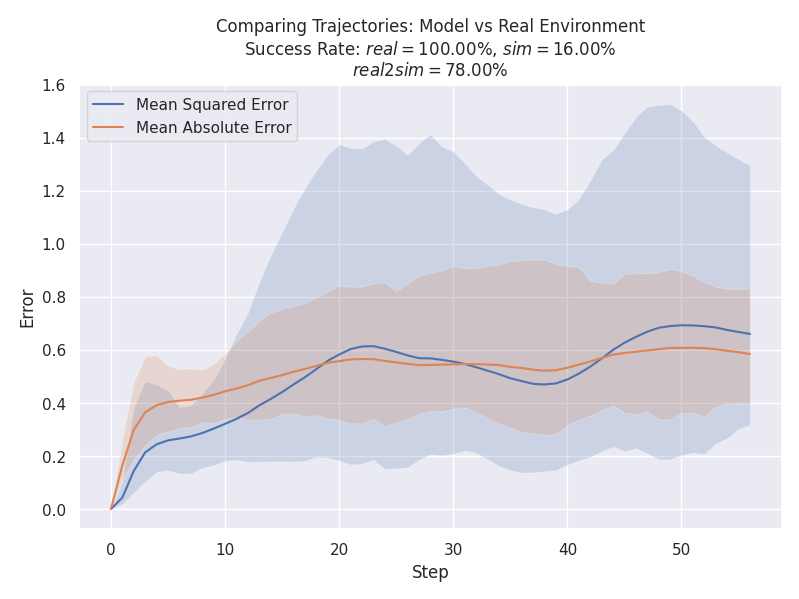
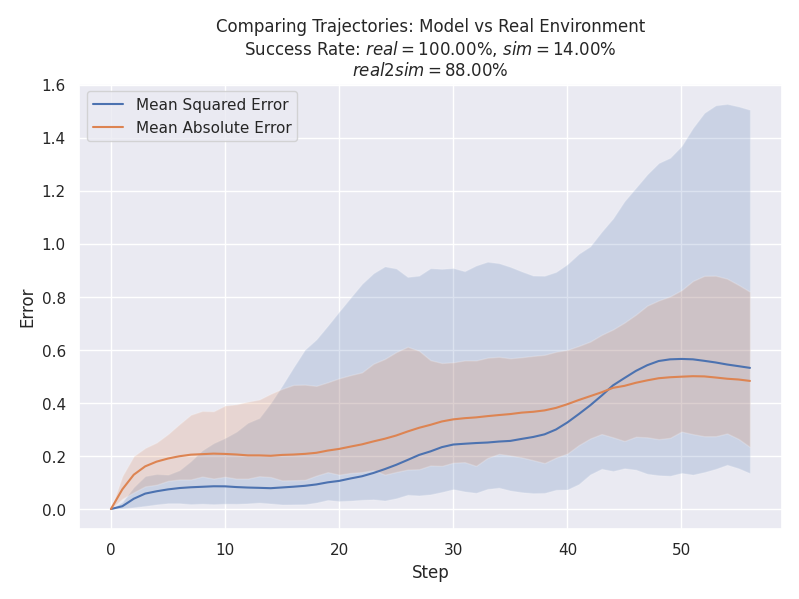
training deeper multistep model

diff --git a/envmodel/initial_observation.py b/envmodel/initial_observation.py
@@ -7,11 +7,12 @@ from flax import linen as nn
 
 class Encoder(nn.Module):
     latent_dimension: int
-    hidden_size: int
+    hidden_dims: Tuple[int, ...]
 
     @nn.compact
     def __call__(self, x):
-        x = nn.relu(nn.Dense(self.hidden_size)(x))
+        for hidden_dim in self.hidden_dims:
+            x = nn.relu(nn.Dense(hidden_dim)(x))
         mean = nn.Dense(self.latent_dimension)(x)
         logvar = nn.Dense(self.latent_dimension)(x)
         return mean, logvar
@@ -19,22 +20,23 @@ class Encoder(nn.Module):
 
 class Decoder(nn.Module):
     output_dimension: int
-    hidden_size: int
+    hidden_dims: Tuple[int, ...]
 
     @nn.compact
     def __call__(self, z):
-        z = nn.relu(nn.Dense(self.hidden_size)(z))
+        for hidden_dim in self.hidden_dims:
+            z = nn.relu(nn.Dense(hidden_dim)(z))
         return nn.Dense(self.output_dimension)(z)
 
 
 class InitialObservationEnvModel(nn.Module):
     observation_dimension: int
     latent_dimension: int
-    hidden_size: int = 128
+    hidden_dims: Tuple[int, ...] = (128,)
 
     def setup(self):
-        self.encoder = Encoder(self.latent_dimension, self.hidden_size)
-        self.decoder = Decoder(self.observation_dimension, self.hidden_size)
+        self.encoder = Encoder(self.latent_dimension, self.hidden_dims)
+        self.decoder = Decoder(self.observation_dimension, self.hidden_dims)
 
     def reparameterize(self, key, mu, logvar):
         std = jnp.exp(0.5 * logvar)

diff --git a/envmodel/multistep.py b/envmodel/multistep.py
@@ -7,15 +7,15 @@ from envmodel.baseline import BaselineEnvModel
 
 
 class Cell(nn.Module):
-    observation_dimension: int = 28
-    action_dimension: int = 5
-    hidden_size: int = 128
+    observation_dimension: int
+    action_dimension: int
+    hidden_dims: Tuple[int, ...]
 
     def setup(self):
         self.cell = BaselineEnvModel(
             observation_dimension=self.observation_dimension,
             action_dimension=self.action_dimension,
-            hidden_size=self.hidden_size,
+            hidden_dims=self.hidden_dims,
         )
 
     @nn.compact
@@ -31,7 +31,7 @@ class Cell(nn.Module):
 class MultistepEnvModel(nn.Module):
     observation_dimension: int = 28
     action_dimension: int = 5
-    hidden_size: int = 128
+    hidden_dims: Tuple[int, ...] = (128, 256, 128)
 
     @nn.compact
     def __call__(
@@ -48,7 +48,7 @@ class MultistepEnvModel(nn.Module):
         _, (next_observations, terminations) = model(
             observation_dimension=self.observation_dimension,
             action_dimension=self.action_dimension,
-            hidden_size=self.hidden_size,
+            hidden_dims=self.hidden_dims,
         )(observations[:, 0, :], actions)
 
         return next_observations, terminations

diff --git a/train_env_model.py b/train_env_model.py
@@ -32,7 +32,7 @@ if config.model == "baseline":
     env_model = BaselineEnvModel(
         observation_dimension=sample_batch["observations"].shape[-1],
         action_dimension=sample_batch["actions"].shape[-1],
-        hidden_size=config.model_config["hidden_dim"],
+        hidden_dims=config.model_config["hidden_dims"],
     )
 
     loss_fn = partial(
@@ -49,7 +49,7 @@ elif config.model == "multistep":
     env_model = MultistepEnvModel(
         observation_dimension=sample_batch["observations"].shape[-1],
         action_dimension=sample_batch["actions"].shape[-1],
-        hidden_size=config.model_config["hidden_dim"],
+        hidden_dims=config.model_config["hidden_dims"],
     )
 
     loss_fn = partial(
@@ -67,7 +67,7 @@ elif config.model == "initial_observation":
     env_model = InitialObservationEnvModel(
         observation_dimension=sample_batch["observations"].shape[-1],
         latent_dimension=config.model_config["latent_dim"],
-        hidden_size=config.model_config["hidden_dim"],
+        hidden_dims=config.model_config["hidden_dims"],
     )
 
     loss_fn = vae_loss

diff --git a/envmodel/baseline.py b/envmodel/baseline.py
@@ -12,7 +12,7 @@ class BaselineEnvModel(nn.Module):
 
     observation_dimension: int = 28
     action_dimension: int = 5
-    hidden_size: int = 128
+    hidden_dims: Tuple[int, ...] = (128, 128)
 
     @nn.compact
     def __call__(self, observations, actions, **kwargs):
@@ -20,8 +20,8 @@ class BaselineEnvModel(nn.Module):
 
         x = nn.LayerNorm()(x)
 
-        x = nn.relu(nn.Dense(self.hidden_size)(x))
-        x = nn.relu(nn.Dense(self.hidden_size)(x))
+        for hidden_dim in self.hidden_dims:
+            x = nn.relu(nn.Dense(hidden_dim)(x))
         next_observations = nn.Dense(self.observation_dimension)(x) + observations
         terminations = nn.Dense(1)(next_observations)
 

diff --git a/task/offline_task_simulated.py b/task/offline_task_simulated.py
@@ -54,7 +54,7 @@ class OfflineTaskWithSimulatedEvaluations(Task):
         self.model = BaselineEnvModel(
             observation_dimension=example_batch["observations"].shape[-1],
             action_dimension=example_batch["actions"].shape[-1],
-            hidden_size=model_config["hidden_dim"],
+            hidden_dims=model_config["hidden_dim"],
         )
 
         env_model_path = save_directory / env_name / "env_models" / f"{model}.pt"

diff --git a/argparser.py b/argparser.py
@@ -182,9 +182,9 @@ def get_env_model_argparser() -> argparse.ArgumentParser:
     )
 
     parser.add_argument(
-        "--model.hidden_dim",
-        type=int,
-        default=128,
+        "--model.hidden_dims",
+        type=literal_eval,
+        default=(128, 128),
         help="The dimension of hidden layers.",
     )
 
